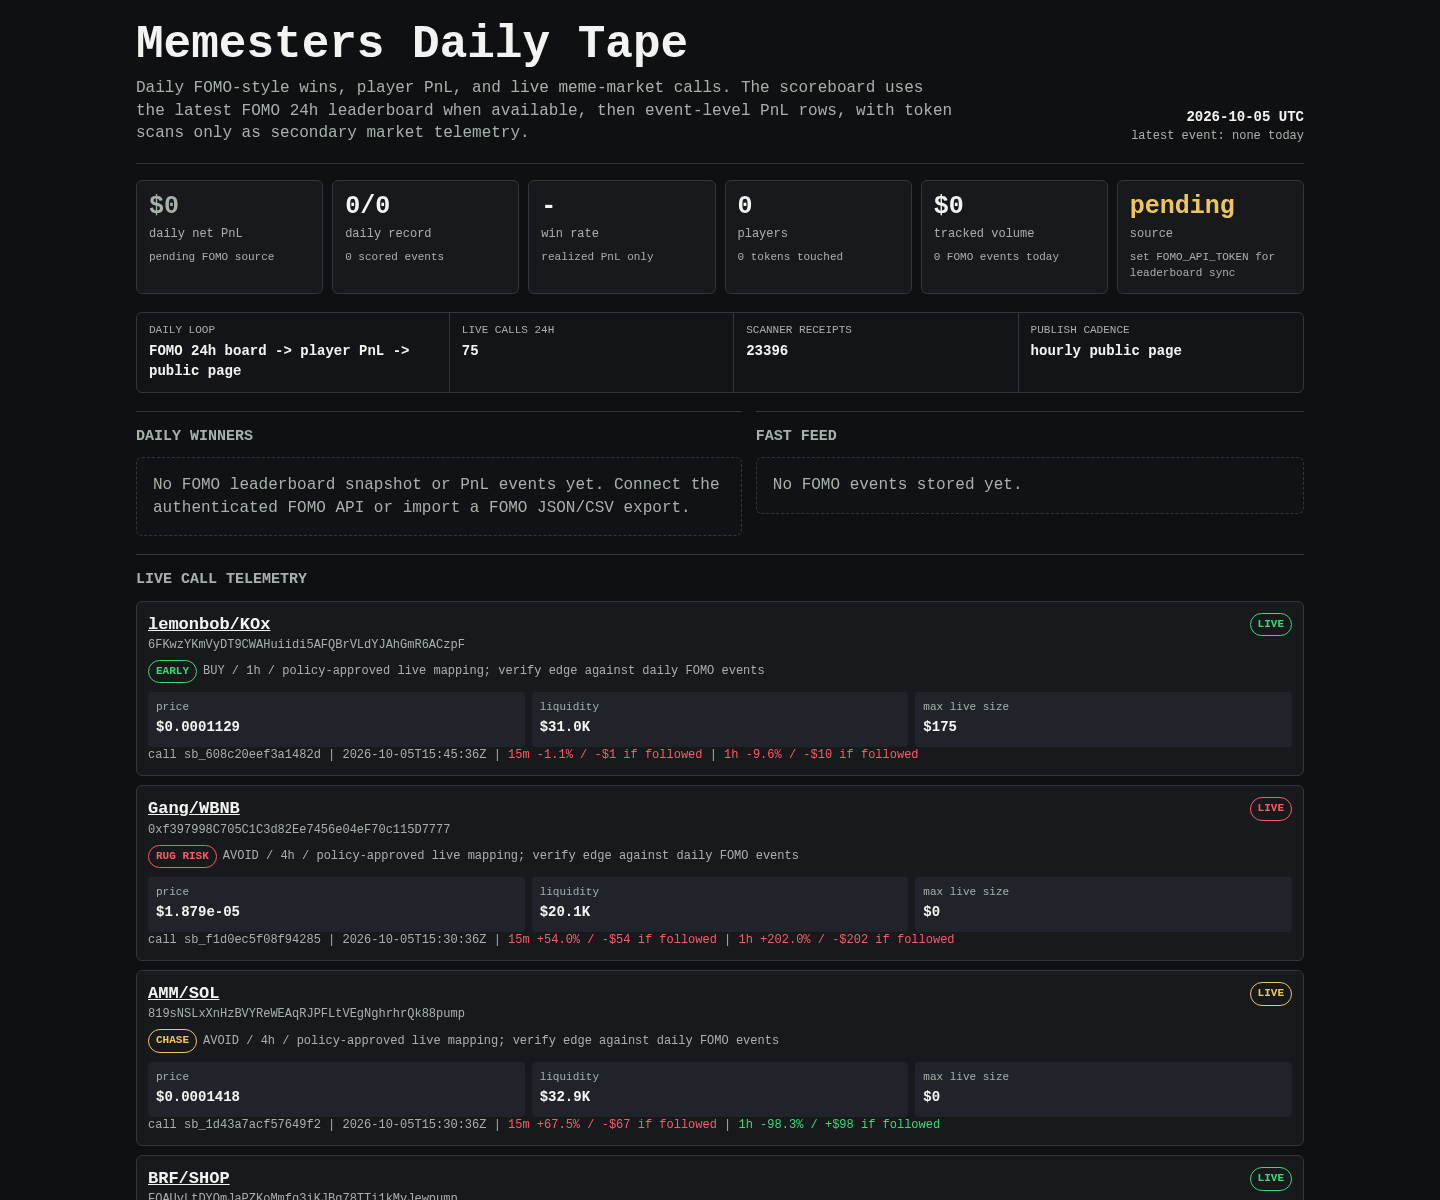
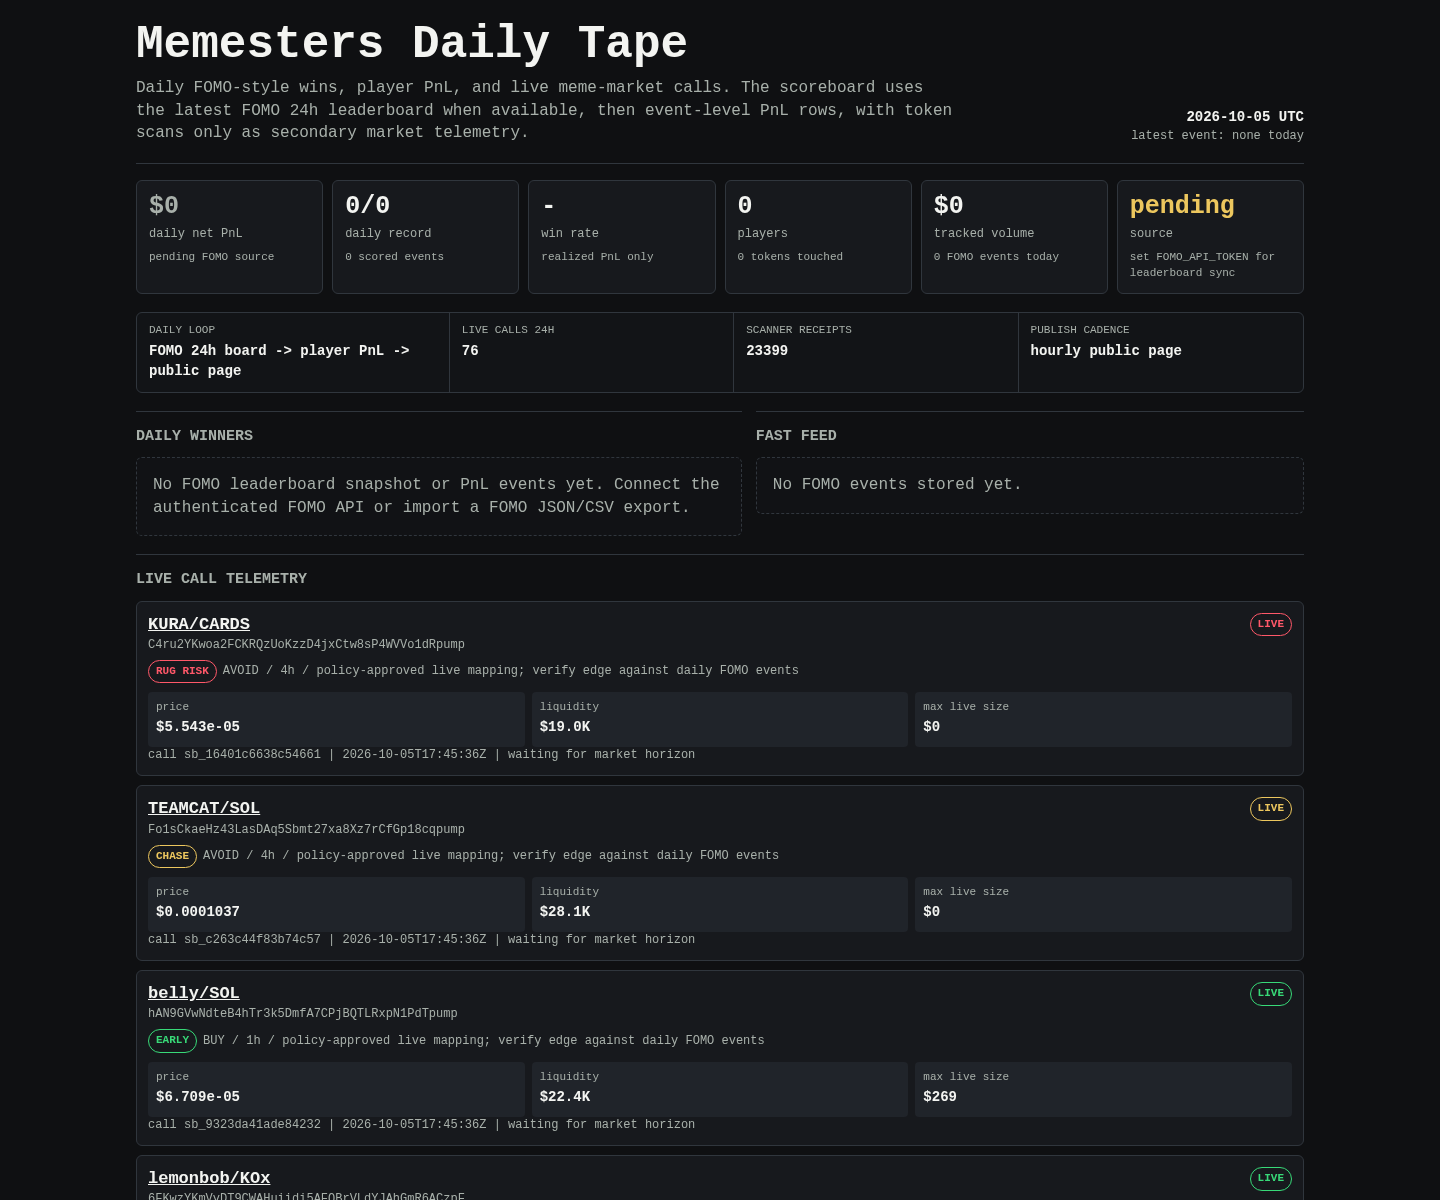
Update Memesters scoreboard

diff --git a/memesters/index.html b/memesters/index.html
@@ -149,8 +149,8 @@
 
     <div class="rail" aria-label="live operating loop">
       <div><span>daily loop</span><b>FOMO 24h board -> player PnL -> public page</b></div>
-      <div><span>live calls 24h</span><b>75</b></div>
-      <div><span>scanner receipts</span><b>23396</b></div>
+      <div><span>live calls 24h</span><b>76</b></div>
+      <div><span>scanner receipts</span><b>23399</b></div>
       <div><span>publish cadence</span><b>hourly public page</b></div>
     </div>
 
@@ -168,6 +168,69 @@
     <section style="margin-top: 18px;">
       <h2>Live Call Telemetry</h2>
       
+    <article class="receipt">
+      <div class="receipt-head">
+        <div>
+          <div class="pair"><a href="https://dexscreener.com/solana/hprhaugyxmm1mwufbxe9l51xcsekfcyfdemzp66bv4be">KURA/CARDS</a></div>
+          <div class="addr">C4ru2YKwoa2FCKRQzUoKzzD4jxCtw8sP4WVVo1dRpump</div>
+          <div class="addr policy-line">
+            <span class="badge rug-risk">RUG RISK</span>
+            <span>AVOID / 4h / policy-approved live mapping; verify edge against daily FOMO events</span>
+          </div>
+        </div>
+        <span class="badge rug-risk">LIVE</span>
+      </div>
+      <div class="receipt-grid">
+        <div class="kv"><span>price</span><b>$5.543e-05</b></div>
+        <div class="kv"><span>liquidity</span><b>$19.0K</b></div>
+        <div class="kv"><span>max live size</span><b>$0</b></div>
+      </div>
+      <div class="outcomes">call sb_16401c6638c54661 | 2026-10-05T17:45:36Z | waiting for market horizon</div>
+    </article>
+    
+
+    <article class="receipt">
+      <div class="receipt-head">
+        <div>
+          <div class="pair"><a href="https://dexscreener.com/solana/37nnajkaobrfruwcj88fxgxygjpgembk4f8992x1tyqy">TEAMCAT/SOL</a></div>
+          <div class="addr">Fo1sCkaeHz43LasDAq5Sbmt27xa8Xz7rCfGp18cqpump</div>
+          <div class="addr policy-line">
+            <span class="badge chase">CHASE</span>
+            <span>AVOID / 4h / policy-approved live mapping; verify edge against daily FOMO events</span>
+          </div>
+        </div>
+        <span class="badge chase">LIVE</span>
+      </div>
+      <div class="receipt-grid">
+        <div class="kv"><span>price</span><b>$0.0001037</b></div>
+        <div class="kv"><span>liquidity</span><b>$28.1K</b></div>
+        <div class="kv"><span>max live size</span><b>$0</b></div>
+      </div>
+      <div class="outcomes">call sb_c263c44f83b74c57 | 2026-10-05T17:45:36Z | waiting for market horizon</div>
+    </article>
+    
+
+    <article class="receipt">
+      <div class="receipt-head">
+        <div>
+          <div class="pair"><a href="https://dexscreener.com/solana/g4xw5del7ntnv8pqcp968mlhhwstrxsftzylyw1tvlhv">belly/SOL</a></div>
+          <div class="addr">hAN9GVwNdteB4hTr3k5DmfA7CPjBQTLRxpN1PdTpump</div>
+          <div class="addr policy-line">
+            <span class="badge early">EARLY</span>
+            <span>BUY / 1h / policy-approved live mapping; verify edge against daily FOMO events</span>
+          </div>
+        </div>
+        <span class="badge early">LIVE</span>
+      </div>
+      <div class="receipt-grid">
+        <div class="kv"><span>price</span><b>$6.709e-05</b></div>
+        <div class="kv"><span>liquidity</span><b>$22.4K</b></div>
+        <div class="kv"><span>max live size</span><b>$269</b></div>
+      </div>
+      <div class="outcomes">call sb_9323da41ade84232 | 2026-10-05T17:45:36Z | waiting for market horizon</div>
+    </article>
+    
+
     <article class="receipt">
       <div class="receipt-head">
         <div>
@@ -311,70 +374,7 @@
         <div class="kv"><span>liquidity</span><b>$64.7K</b></div>
         <div class="kv"><span>max live size</span><b>$0</b></div>
       </div>
-      <div class="outcomes">call sb_b5705320dfb14d9f | 2026-10-05T13:45:34Z | <span class="positive">15m -33.9% / +$34 if followed</span> | <span class="positive">1h -31.3% / +$31 if followed</span></div>
-    </article>
-    
-
-    <article class="receipt">
-      <div class="receipt-head">
-        <div>
-          <div class="pair"><a href="https://dexscreener.com/solana/ekknfvp7nv72mttywphx2ln8g1wx969upgq4zz6ecpbq">CORGI/SOL</a></div>
-          <div class="addr">AwobFK4dFzSdnjwHjzqXguWaUNzeGX8G6Jz2m9H9caSu</div>
-          <div class="addr policy-line">
-            <span class="badge early">EARLY</span>
-            <span>BUY / 1h / policy-approved live mapping; verify edge against daily FOMO events</span>
-          </div>
-        </div>
-        <span class="badge early">LIVE</span>
-      </div>
-      <div class="receipt-grid">
-        <div class="kv"><span>price</span><b>$6.1e-05</b></div>
-        <div class="kv"><span>liquidity</span><b>$20.9K</b></div>
-        <div class="kv"><span>max live size</span><b>$251</b></div>
-      </div>
-      <div class="outcomes">call sb_0272b957757c402b | 2026-10-05T13:45:34Z | <span class="negative">15m -37.1% / -$37 if followed</span> | <span class="negative">1h -80.1% / -$80 if followed</span></div>
-    </article>
-    
-
-    <article class="receipt">
-      <div class="receipt-head">
-        <div>
-          <div class="pair"><a href="https://dexscreener.com/robinhood/0x20c52390cae4bbff63e92c7389cdde963e5bc6b26b30a28cd43a7b012fc32300">EMDASH/ETH</a></div>
-          <div class="addr">0xFe6883F869dd1f15c0aC45330574E2cA9e67fEb4</div>
-          <div class="addr policy-line">
-            <span class="badge early">EARLY</span>
-            <span>BUY / 1h / policy-approved live mapping; verify edge against daily FOMO events</span>
-          </div>
-        </div>
-        <span class="badge early">LIVE</span>
-      </div>
-      <div class="receipt-grid">
-        <div class="kv"><span>price</span><b>$3.994e-05</b></div>
-        <div class="kv"><span>liquidity</span><b>$19.3K</b></div>
-        <div class="kv"><span>max live size</span><b>$231</b></div>
-      </div>
-      <div class="outcomes">call sb_05563f42dad3427b | 2026-10-05T13:45:33Z | <span class="negative">15m -36.3% / -$36 if followed</span> | <span class="negative">1h -77.1% / -$77 if followed</span></div>
-    </article>
-    
-
-    <article class="receipt">
-      <div class="receipt-head">
-        <div>
-          <div class="pair"><a href="https://dexscreener.com/bsc/0xf423e7a764ea9758049072de18262f9f1a2e2439">BAI/NVDAB</a></div>
-          <div class="addr">0xDBE748Db52F88052FcF7173d1Ae33AFE9e3d7777</div>
-          <div class="addr policy-line">
-            <span class="badge chase">CHASE</span>
-            <span>AVOID / 4h / policy-approved live mapping; verify edge against daily FOMO events</span>
-          </div>
-        </div>
-        <span class="badge chase">LIVE</span>
-      </div>
-      <div class="receipt-grid">
-        <div class="kv"><span>price</span><b>$0.000197</b></div>
-        <div class="kv"><span>liquidity</span><b>$44.6K</b></div>
-        <div class="kv"><span>max live size</span><b>$0</b></div>
-      </div>
-      <div class="outcomes">call sb_020cf4694d3a4b7d | 2026-10-05T13:00:40Z | <span class="negative">15m +65.2% / -$65 if followed</span> | <span class="positive">1h -0.1% / +$0 if followed</span></div>
+      <div class="outcomes">call sb_b5705320dfb14d9f | 2026-10-05T13:45:34Z | <span class="positive">15m -33.9% / +$34 if followed</span> | <span class="positive">1h -31.3% / +$31 if followed</span> | <span class="positive">4h -11.8% / +$12 if followed</span></div>
     </article>
     
     </section>
